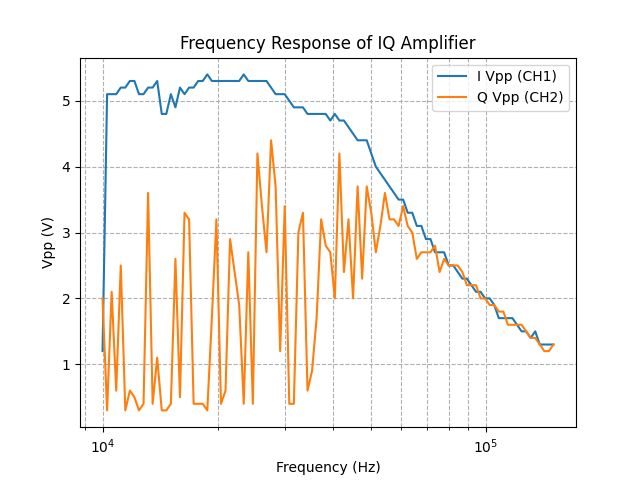
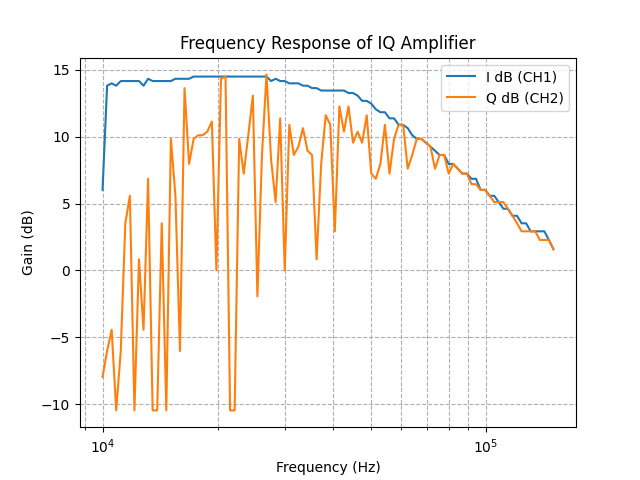
test

diff --git a/M3/AmplifierTestScript.py b/M3/AmplifierTestScript.py
@@ -4,7 +4,6 @@ This script measures the frequency response of the pre-mixer BPF."""
 
 import matplotlib.pyplot as plt 
 import numpy as np
-import math
 import pyvisa
 import time
 import sys
@@ -123,8 +122,8 @@ scope.query(":MEAS:FREQ? CHAN1")
 scope.query(":MEAS:FREQ? CHAN2")
 
 frequencies = np.logspace(np.log10(1e4), np.log10(1.5e5), num=100)
-I_db = []
-Q_db = []
+I_vpp = []
+Q_vpp = []
 
 for freq in frequencies:
     freq_str = f"{freq:.2E}"  # SCPI prefers scientific notation
@@ -134,19 +133,16 @@ for freq in frequencies:
 
     i_vpp = float(scope.query(":MEAS:VPP? CHAN1"))
     q_vpp = float(scope.query(":MEAS:VPP? CHAN2"))
-
-    i_db = 20 * math.log10(i_vpp)
-    q_db = 20 * math.log10(q_vpp)
     
-    I_db.append(i_db)
-    Q_db.append(q_db)
+    I_vpp.append(i_vpp)
+    Q_vpp.append(q_vpp)
 
 # Plot and save the result
 plt.figure()
-plt.semilogx(frequencies, I_db, label="I dB (CH1)")
-plt.semilogx(frequencies, Q_db, label="Q dB (CH2)")
+plt.semilogx(frequencies, I_vpp, label="I Vpp (CH1)")
+plt.semilogx(frequencies, Q_vpp, label="Q Vpp (CH2)")
 plt.xlabel("Frequency (Hz)")
-plt.ylabel("Gain (dB)")
+plt.ylabel("Vpp (V)")
 plt.title("Frequency Response of IQ Amplifier")
 plt.legend()
 plt.grid(True, which="both", ls="--")
